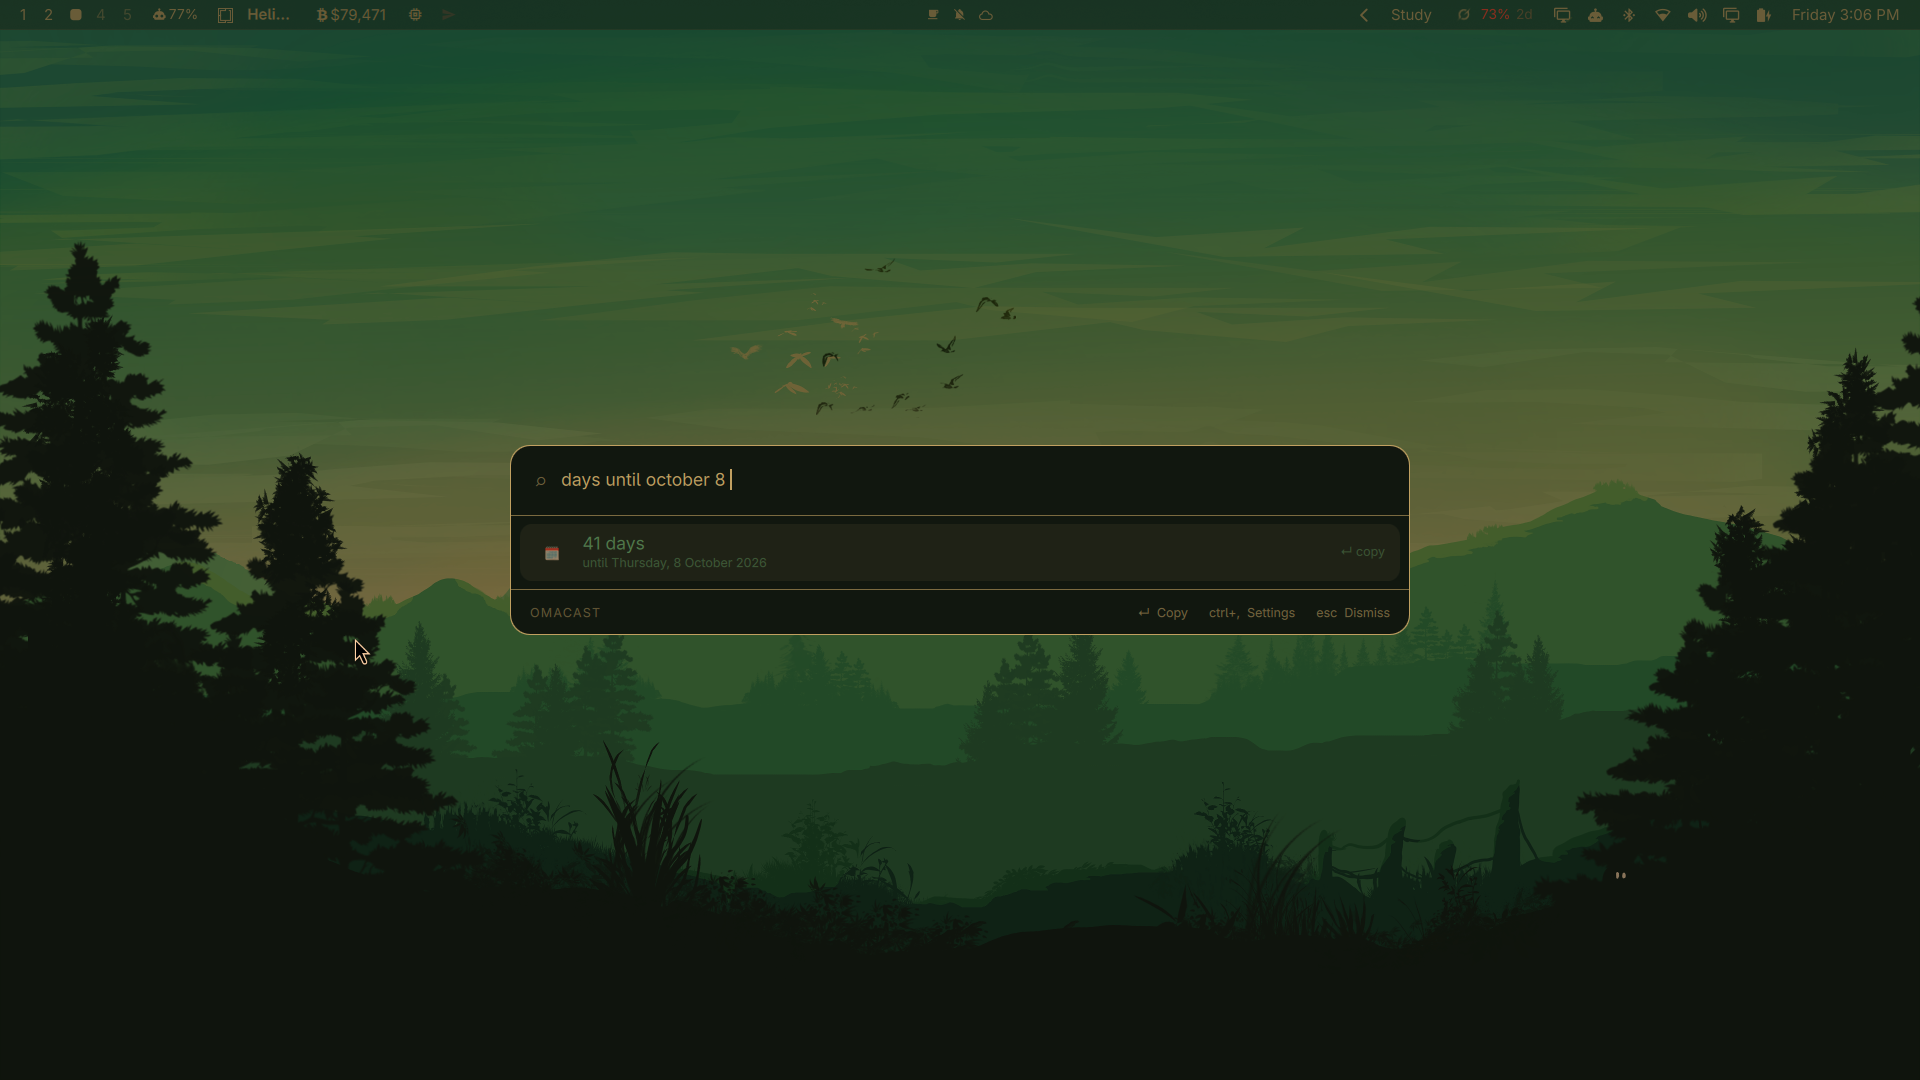
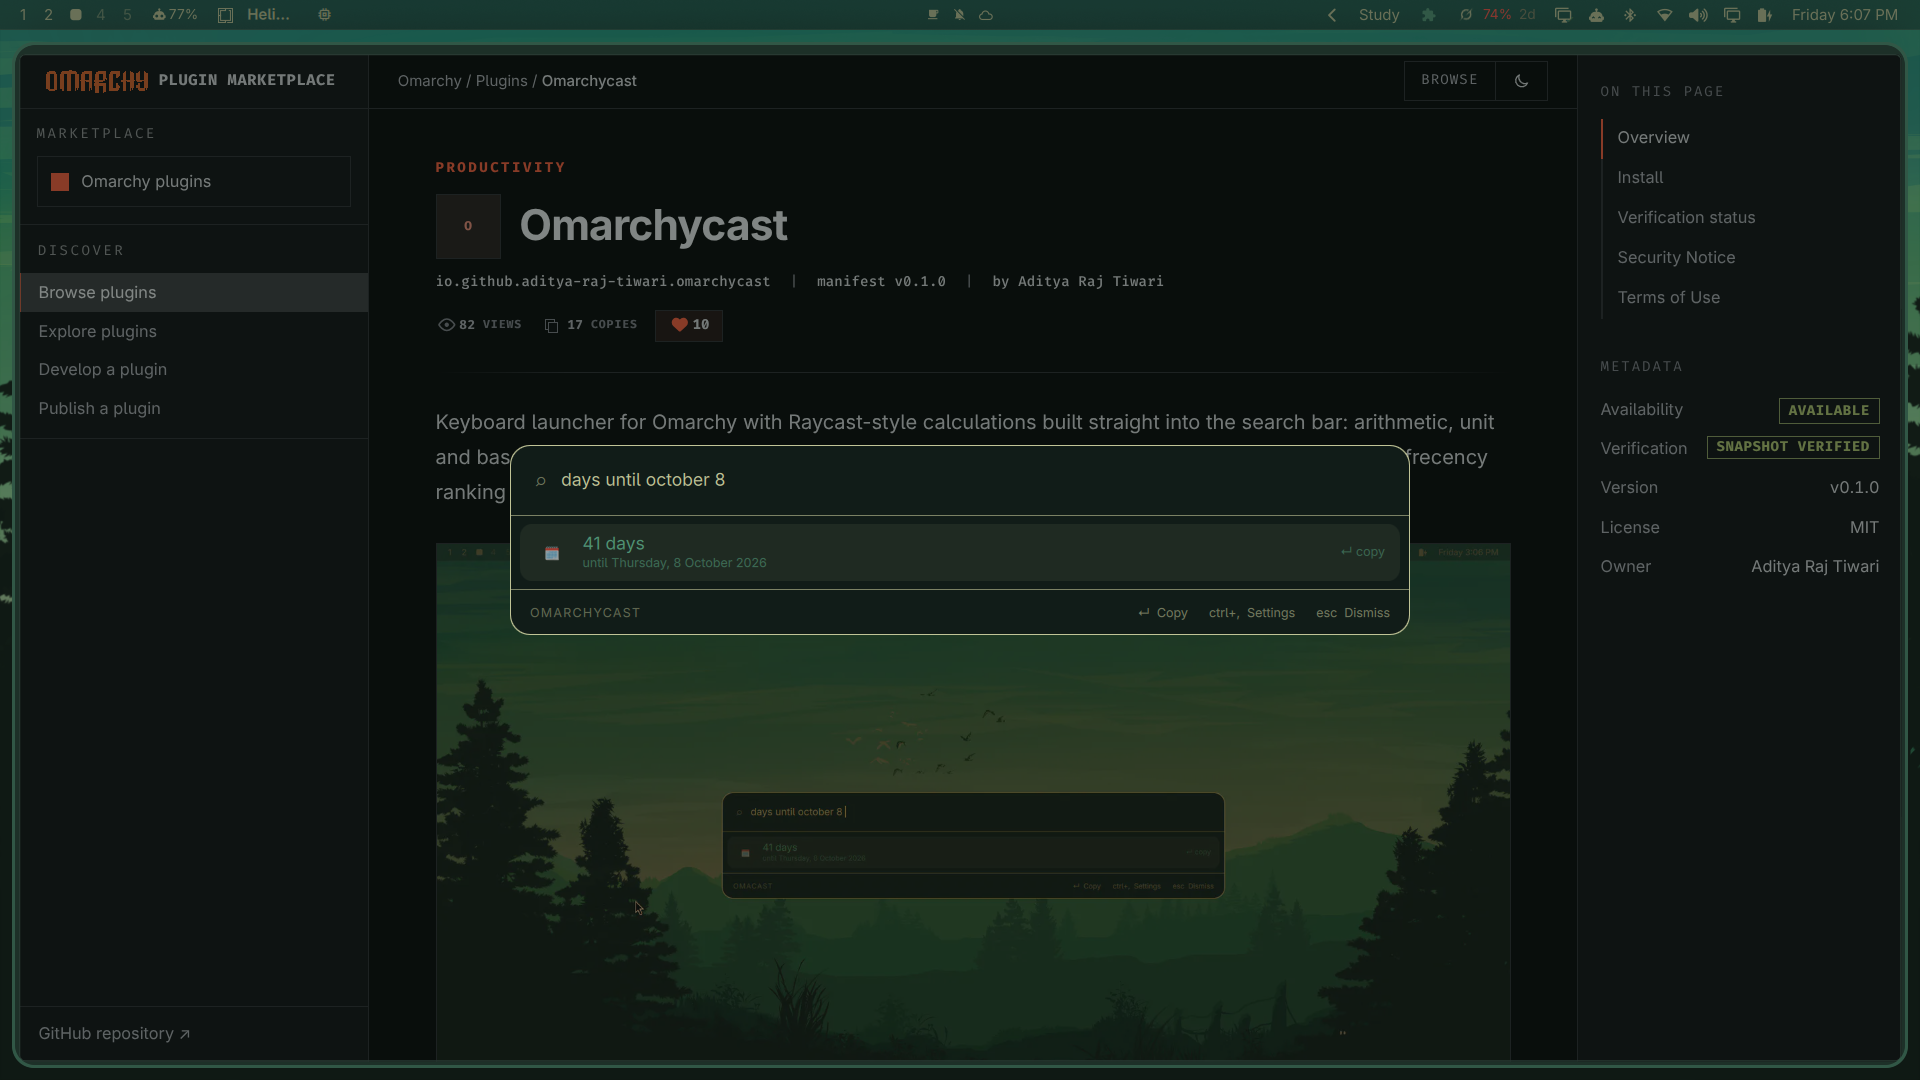
Omarchycast 0.2.0: fresh screenshots for the new sources
New captures of the Omarchy index (breadcrumbed menu entries), theme
switching, and plugin commands sitting beside system entries; the main
and dates screenshots retaken under the current branding. The listing
preview follows the dates shot.

Claude-Session: https://claude.ai/code/session_016cptJLyMhUgCaGqzTeGmbQ

diff --git a/README.md b/README.md
@@ -13,6 +13,14 @@ Dates are answered in the same field, with no mode to switch into:
 
 ![Date arithmetic](screenshot-dates.png)
 
+| Omarchy, searchable | Theme switching |
+|---|---|
+| ![Omarchy search](screenshot-omarchy.png) | ![Theme switching](screenshot-theme.png) |
+
+| Plugins beside system entries | |
+|---|---|
+| ![Plugin commands](screenshot-plugins.png) | |
+
 ## Why it is built this way
 
 Omarchycast is a Quickshell **overlay plugin**, so the interface runs inside the
